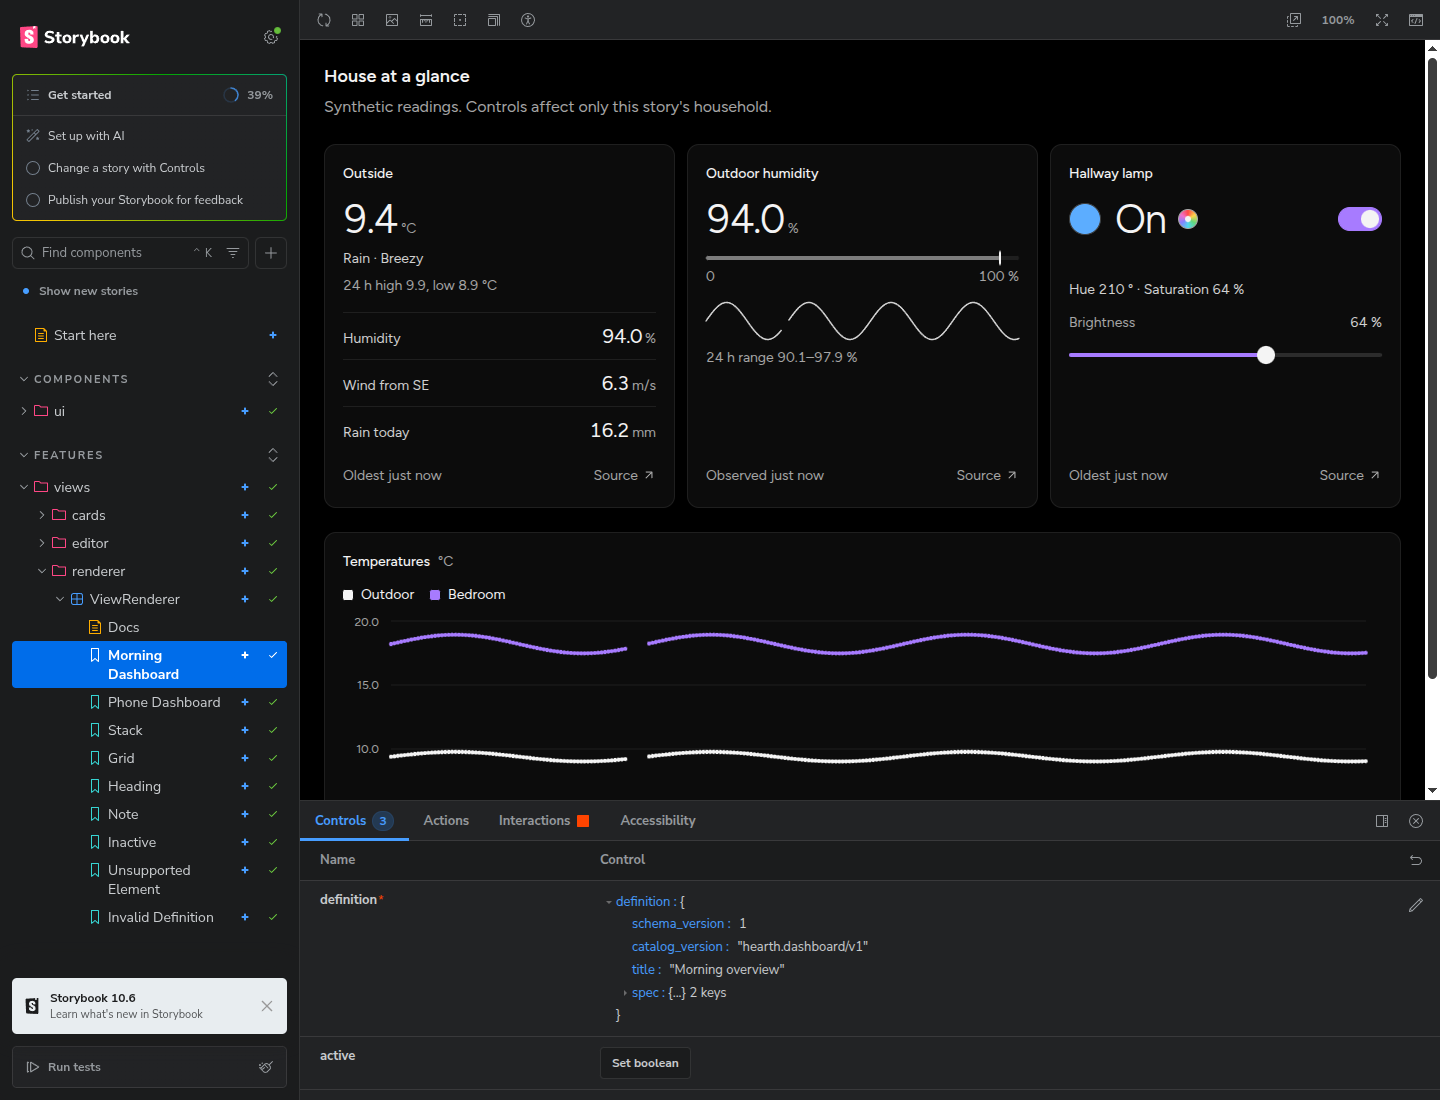
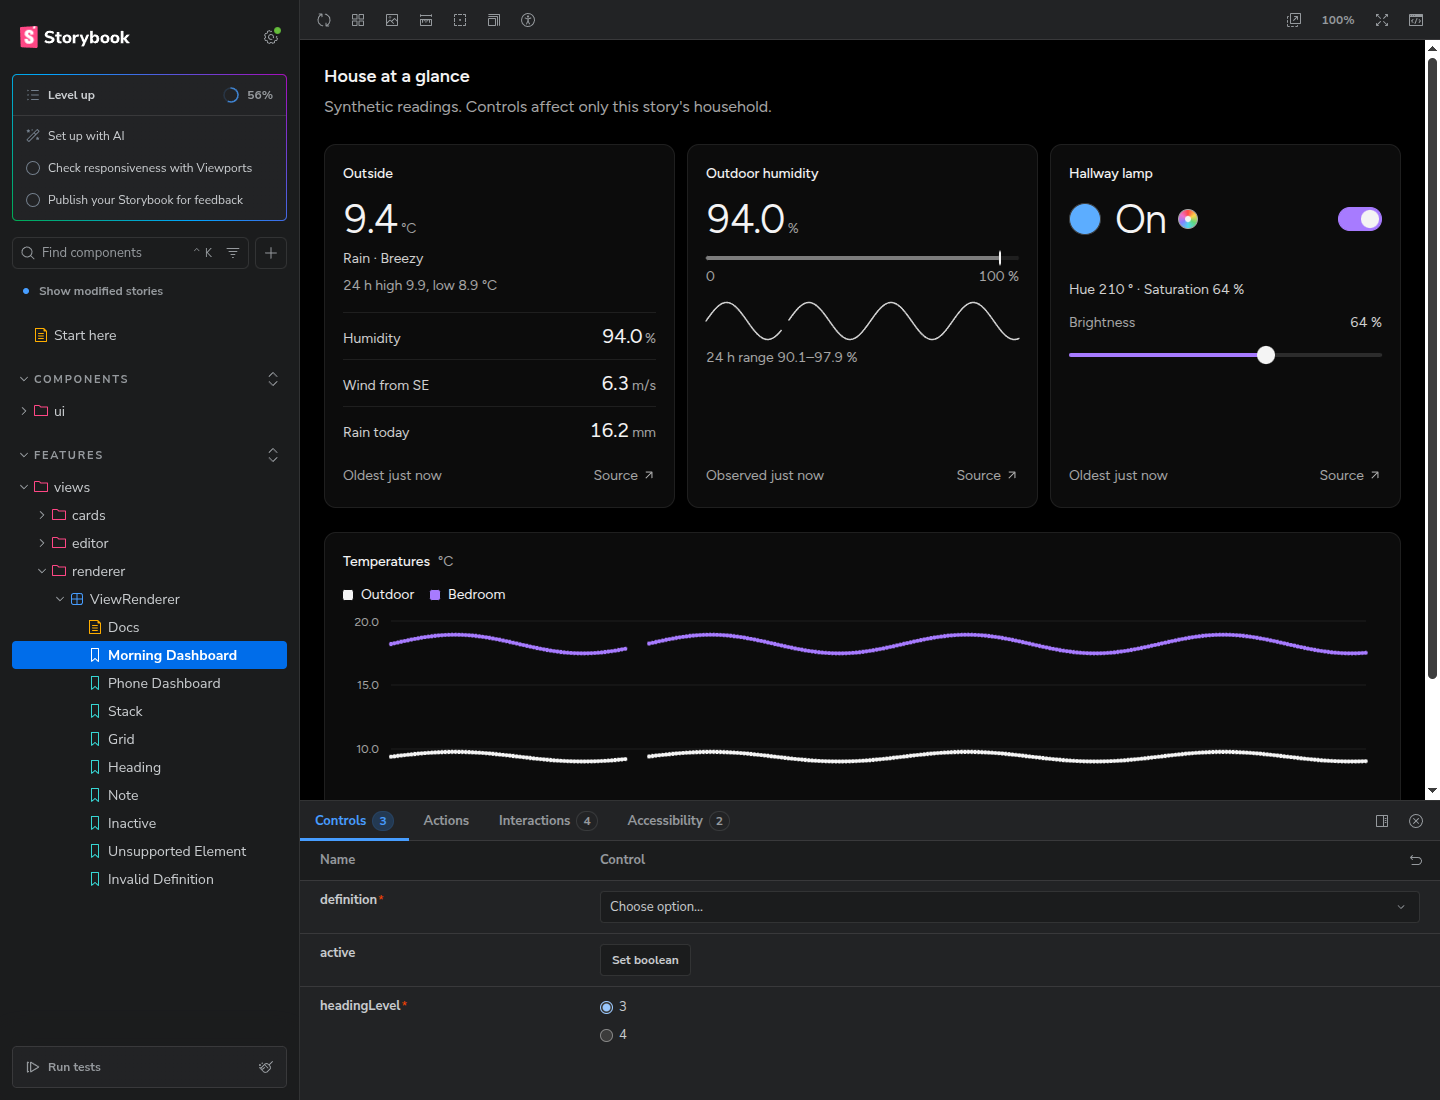
fix(web): restore Storybook controls and align card titles
Restate Storybook's default react-docgen-typescript options alongside the
custom propFilter. Replacing them had turned optional booleans and literal
unions into JSON editors.

Give the eight kebab-case card folders explicit titles so all cards share one
sidebar level, offer ViewRenderer definitions as a dropdown of valid examples,
and disable the "What's new" notification. Recapture the desktop evidence.

diff --git a/web/.storybook/main.ts b/web/.storybook/main.ts
@@ -23,7 +23,11 @@ const config: StorybookConfig = {
   features: { componentsManifest: true },
   typescript: {
     reactDocgen: "react-docgen-typescript",
+    // These options replace Storybook's defaults, so restate the ones controls rely on.
     reactDocgenTypescriptOptions: {
+      shouldExtractLiteralValuesFromEnum: true,
+      shouldRemoveUndefinedFromOptional: true,
+      savePropValueAsString: true,
       // The manifest drops inherited sources over 30 props. Keep a useful native subset.
       propFilter: (prop) => !prop.parent?.fileName.includes("node_modules") || [
         "id", "role", "tabIndex", "name", "required", "readOnly", "min", "max", "step",
@@ -35,7 +39,7 @@ const config: StorybookConfig = {
       ].includes(prop.name),
     },
   },
-  core: { disableTelemetry: true },
+  core: { disableTelemetry: true, disableWhatsNewNotifications: true },
   viteFinal(config) {
     config.publicDir = path.resolve(import.meta.dirname, "public");
     config.plugins = [...(config.plugins ?? []), tailwindcss()];

diff --git a/web/src/features/views/renderer/ViewRenderer.stories.tsx b/web/src/features/views/renderer/ViewRenderer.stories.tsx
@@ -3,10 +3,17 @@ import { expect } from "storybook/test";
 import { catalogExamples, dashboardDefinition, definitionFor } from "../../../../.storybook/fixtures";
 import { ViewRenderer } from "./ViewRenderer";
 
+// Controls choose a valid example instead of editing raw definition JSON.
+const examples = Object.fromEntries([
+  ["Morning dashboard", dashboardDefinition],
+  ...Object.values(catalogExamples).map(element => [element.type, definitionFor(element)]),
+]);
+
 const meta = {
   component: ViewRenderer,
   tags: ["ai-generated"],
   args: { definition: dashboardDefinition, headingLevel: 3 },
+  argTypes: { definition: { options: Object.keys(examples), mapping: examples, control: { type: "select" } } },
   parameters: { docs: { description: { component: "Render a validated hearth.dashboard/v1 graph. Layout and text nodes are catalog elements, not independent React components. Unsupported content remains recoverable." } } },
 } satisfies Meta<typeof ViewRenderer>;
 export default meta;

diff --git a/web/src/features/views/cards/air-purifier/AirPurifier.stories.tsx b/web/src/features/views/cards/air-purifier/AirPurifier.stories.tsx
@@ -5,6 +5,7 @@ import { entityScenario } from "../../../../../.storybook/msw-handlers";
 import { BoundAirPurifier } from "./AirPurifier";
 
 const meta = {
+  title: "features/views/cards/AirPurifier",
   component: BoundAirPurifier,
   tags: ["ai-generated"],
   args: {

diff --git a/web/src/features/views/cards/reading-list/ReadingList.stories.tsx b/web/src/features/views/cards/reading-list/ReadingList.stories.tsx
@@ -5,6 +5,7 @@ import { entityScenario } from "../../../../../.storybook/msw-handlers";
 import { BoundReadingList } from "./ReadingList";
 
 const meta = {
+  title: "features/views/cards/ReadingList",
   component: BoundReadingList,
   tags: ["ai-generated"],
   args: {

diff --git a/web/src/features/views/cards/week-pattern/WeekPattern.stories.tsx b/web/src/features/views/cards/week-pattern/WeekPattern.stories.tsx
@@ -5,6 +5,7 @@ import { entityScenario } from "../../../../../.storybook/msw-handlers";
 import { BoundWeekPattern } from "./WeekPattern";
 
 const meta = {
+  title: "features/views/cards/WeekPattern",
   component: BoundWeekPattern,
   tags: ["ai-generated"],
   args: {

diff --git a/web/src/features/views/cards/state-timeline/StateTimeline.stories.tsx b/web/src/features/views/cards/state-timeline/StateTimeline.stories.tsx
@@ -4,6 +4,7 @@ import { entityId } from "../../../../../.storybook/fixtures";
 import { BoundStateTimeline } from "./StateTimeline";
 
 const meta = {
+  title: "features/views/cards/StateTimeline",
   component: BoundStateTimeline,
   tags: ["ai-generated"],
   args: {

diff --git a/web/src/features/views/cards/outside-now/OutsideNow.stories.tsx b/web/src/features/views/cards/outside-now/OutsideNow.stories.tsx
@@ -5,6 +5,7 @@ import { entityScenario } from "../../../../../.storybook/msw-handlers";
 import { BoundOutsideNow } from "./OutsideNow";
 
 const meta = {
+  title: "features/views/cards/OutsideNow",
   component: BoundOutsideNow,
   tags: ["ai-generated"],
   args: {

diff --git a/web/src/features/views/cards/toggle-list/ToggleList.stories.tsx b/web/src/features/views/cards/toggle-list/ToggleList.stories.tsx
@@ -5,6 +5,7 @@ import { entityScenario } from "../../../../../.storybook/msw-handlers";
 import { BoundToggleList } from "./ToggleList";
 
 const meta = {
+  title: "features/views/cards/ToggleList",
   component: BoundToggleList,
   tags: ["ai-generated"],
   args: {

diff --git a/web/src/features/views/cards/toggle-tile/ToggleTile.stories.tsx b/web/src/features/views/cards/toggle-tile/ToggleTile.stories.tsx
@@ -6,6 +6,7 @@ import { entityScenario } from "../../../../../.storybook/msw-handlers";
 import { BoundToggleTile } from "./ToggleTile";
 
 const meta = {
+  title: "features/views/cards/ToggleTile",
   component: BoundToggleTile,
   tags: ["ai-generated"],
   args: {

diff --git a/web/src/features/views/cards/time-series/TimeSeries.stories.tsx b/web/src/features/views/cards/time-series/TimeSeries.stories.tsx
@@ -5,6 +5,7 @@ import { entityId } from "../../../../../.storybook/fixtures";
 import { BoundTimeSeries } from "./TimeSeries";
 
 const meta = {
+  title: "features/views/cards/TimeSeries",
   component: BoundTimeSeries,
   tags: ["ai-generated"],
   args: {

diff --git a/docs/design/storybook/README.md b/docs/design/storybook/README.md
@@ -5,14 +5,16 @@ using synthetic, story-local HTTP fixtures. They do not prove Core behavior or
 physical-device compatibility. There is no baseline capture because the base
 revision (`a6cb875`) has no Storybook.
 
-Captured from the uncommitted feature snapshot on 2026-11-13. The depicted
-stories, CSS, and fixtures are unchanged in the delivered revision. Later
-changes only repair generated prop documentation and exclude the mock worker
-from the production build.
+The phone captures and recording come from the uncommitted feature snapshot on
+2026-11-13. The stories, CSS, and fixtures they show are unchanged in the
+delivered revision. Later changes repair generated prop documentation and
+controls, add explicit card titles, and exclude the mock worker from the
+production build. `desktop.png` was recaptured on 2026-11-14 to show the
+current controls.
 
 | File | Capture conditions and observed result |
 | --- | --- |
-| `desktop.png` | Morning Dashboard in the Storybook manager, 1440×1100. Production theme, controls, readings, and history render without Core. |
+| `desktop.png` | Morning Dashboard in the Storybook manager, 1440×1100, default args. Production theme, readings, and history render without Core. `definition` is a dropdown of valid examples. `active` is a boolean control. |
 | `phone-dashboard.png` | Phone Dashboard, 390px wide, full-page capture. Document width and scroll width both measure 390px. |
 | `phone-color.png` | Device card at 390×844 with the real light-color dialog open after setting red. The synthetic observed swatch and hex value agree. |
 | `light-control.mp4` | 26-second browser recording at 390×844: open the picker, enter `#ff0000`, submit, and observe the red swatch. The recording ends during the close-button interaction. |

diff --git a/docs/storybook.md b/docs/storybook.md
@@ -77,7 +77,11 @@ Vite configuration has no live backend proxies. Keep assertions about observed
 State distinct from Command outcomes.
 
 Use `Meta<typeof Component>` and `StoryObj<typeof meta>`, real component imports,
-and object-literal args so the manifest can extract complete snippets. Prefer
+and object-literal args so the manifest can extract complete snippets. Card
+stories use the title `features/views/cards/<Component>`. Storybook omits a
+folder from the generated title only when the folder name matches the file name,
+so set `title` explicitly for a card in a kebab-case folder such as
+`toggle-tile/ToggleTile.stories.tsx`. Prefer
 direct component stories for discoverable props, with
 renderer/composition stories for catalog layouts. Add a play function when it
 proves async data arrival, a meaningful interaction, or a portal contract. Static
